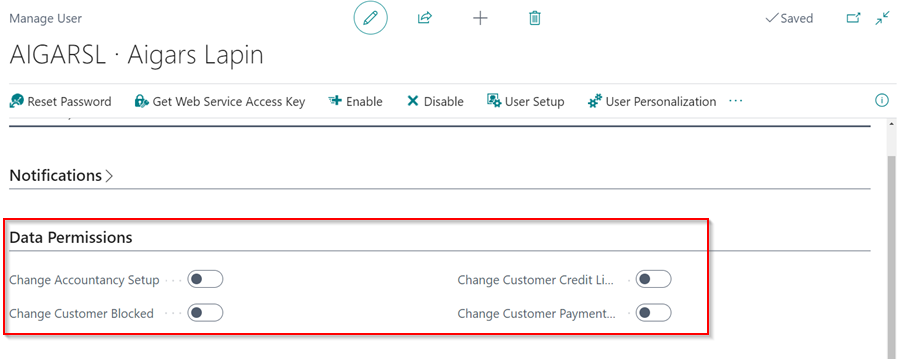
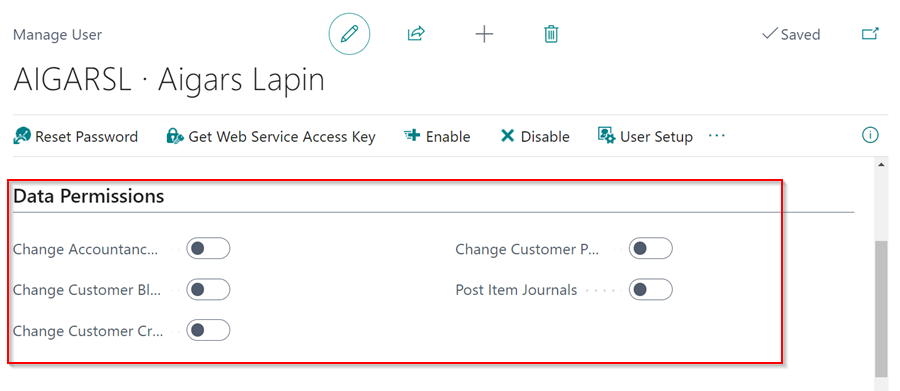
Data permissions docs update

diff --git a/docs/garagehive-user-management.md b/docs/garagehive-user-management.md
@@ -1,9 +1,11 @@
 ---
 layout: docs
-title: User Management
+title: How to Manage Users, Roles and Data Permissions in Garage Hive
 ---
 
-#   How to Manage System Users Within Garage Hive 
+<a name="top"></a>
+
+# How to Manage Users, Roles and Data Permissions in Garage Hive
 In Garage Hive system, you can manage licenced users in the system from the **User Management** page. The user marked as **System Administrator** is the **only** user who can manage the users.
 
 ## In this article
@@ -30,6 +32,8 @@ To be able to use user accounts in the Garage Hive system, they must have a lice
    **'Your request was submitted to Garage Hive support. You should receive a confirmation email immediately. Please note that processing Microsoft licences can take up to 48 hours.'**
 
    {% include tip.html title="Note" text="If you did not receive the automated email confirmation, please contact the support team as they may not have received the request." %}
+
+[Go back to top](#top)
 
 ### Creating a Service Advisor user
 1. Search for **User Management** in the ![](media/search_icon.png) icon, at the top-right corner. 
@@ -59,6 +63,8 @@ To be able to use user accounts in the Garage Hive system, they must have a lice
 
 ![](media/garagehive-user-management6.png)
 
+[Go back to top](#top)
+
 ### Creating a Technician user
 To create a **Technician** user:
 1. Click on **Create** from the menu bar and enter the user details and contact details in the following two pages.
@@ -74,11 +80,15 @@ To create a **Technician** user:
 
 ![](media/garagehive-user-management9.gif)
 
+[Go back to top](#top)
+
 ### Enabling and disabling the user
 To enable or disable the user:
 1. Click on **Enable** or **Disable** from the menu bar.
 
 ![](media/garagehive-user-management10.gif)
+
+[Go back to top](#top)
 
 ### Password reset for garage hive user
 To reset a garage hive user's password:
@@ -98,6 +108,8 @@ To reset a garage hive user's password:
 > The password entered must be at least 8 characters long and contain at least one uppercase letter, one lowercase letter, one number and one special character. It must not have a sequence of 3 or more ascending, descending or repeating characters.
 
 {% include tip.html title="Note" text="All users created in the system need a licence; talk to our support team to activate your licences." %}
+
+[Go back to top](#top)
 
 ### Enabling Data Permissions for a User
 To manage **Data Permissions** for a user:
@@ -127,7 +139,25 @@ To manage **Data Permissions** for a user:
 
       ![](media/garagehive-user-management19.png)
 
+    * **Post Item Journals** - When this is enabled, the user can post the following journals in the system:
+         - Item Journals - used to adjust the available quantity of an item in the system.
 
+            ![](media/garagehive-post-item-journals1.png)
+
+         - Physical Inventory Journals - Used after a physical stock take to adjust the item quantities in the system to match the physically available inventory.
+
+            ![](media/garagehive-post-item-journals2.png)
+
+         - Item Reclassification Journals - Used to change Location Code, or Branch Code for item quantities in the system.
+
+            ![](media/garagehive-post-item-journals3.png)
+
+         - Item Revaluation Journals - Used to adjust the value of items in the inventory without affecting their quantity.
+
+            ![](media/garagehive-post-item-journals4.png)
+
+
+[Go back to top](#top)
 
 ### **See Also**
 
